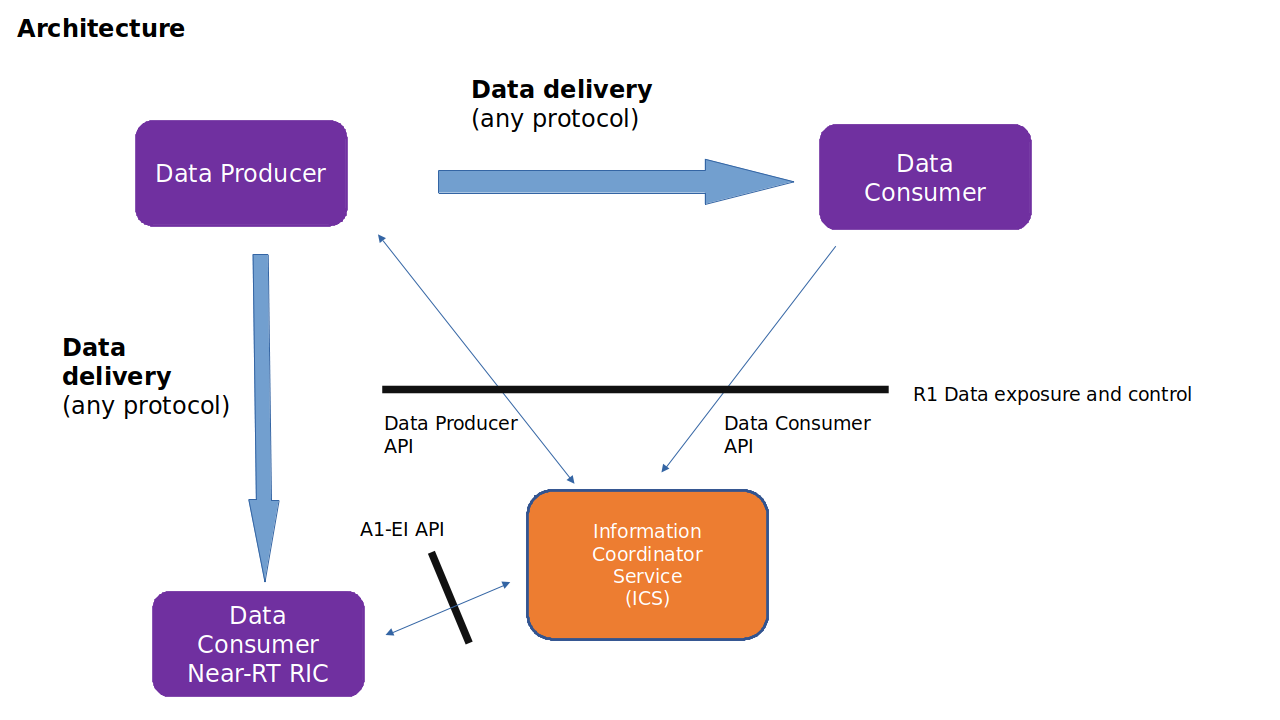
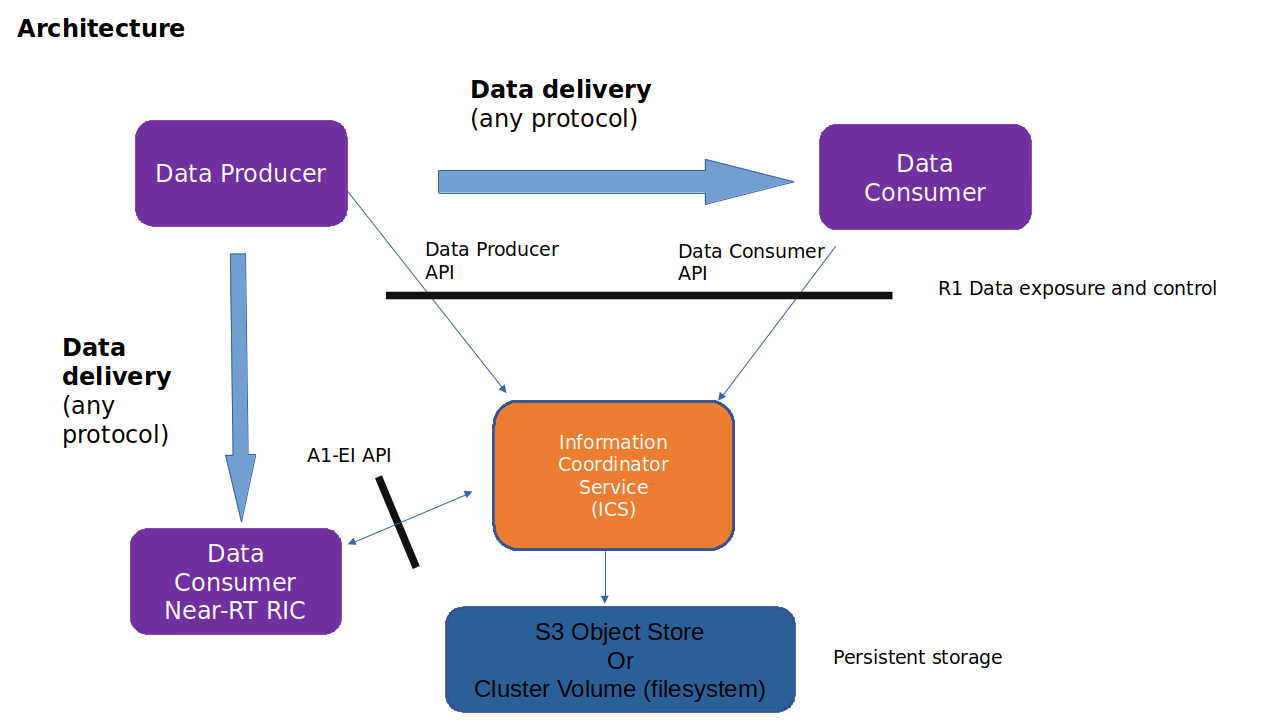
NONRTRIC - Using S3 storage for ICS
Documentation updates.

Issue-ID: NONRTRIC-811

diff --git a/docs/overview.rst b/docs/overview.rst
@@ -28,6 +28,8 @@ One information type can be supported by zero to many data producers and can be 
 .. image:: ./Architecture.png
    :width: 500pt
 
+Information Jobs and types are stored persistently by ICS in a local database. This can be either using Amazon S3 - Cloud Object Storage or file system.
+
 *********************
 Summary of principles
 *********************
@@ -37,7 +39,6 @@ Summary of principles
 * Data filtering is done at the producer.
 * A Data Consumer can create a data subscription (Information Job) regardless of the status of the data producers. The producers can come and go without any need for the Data Consumer to take any action.
   A subscription indicates the need for a type of data and the system should do its best to fulfill this.
-* Information Jobs and types are stored persistently by ICS in a local database.
 
 
 *******
